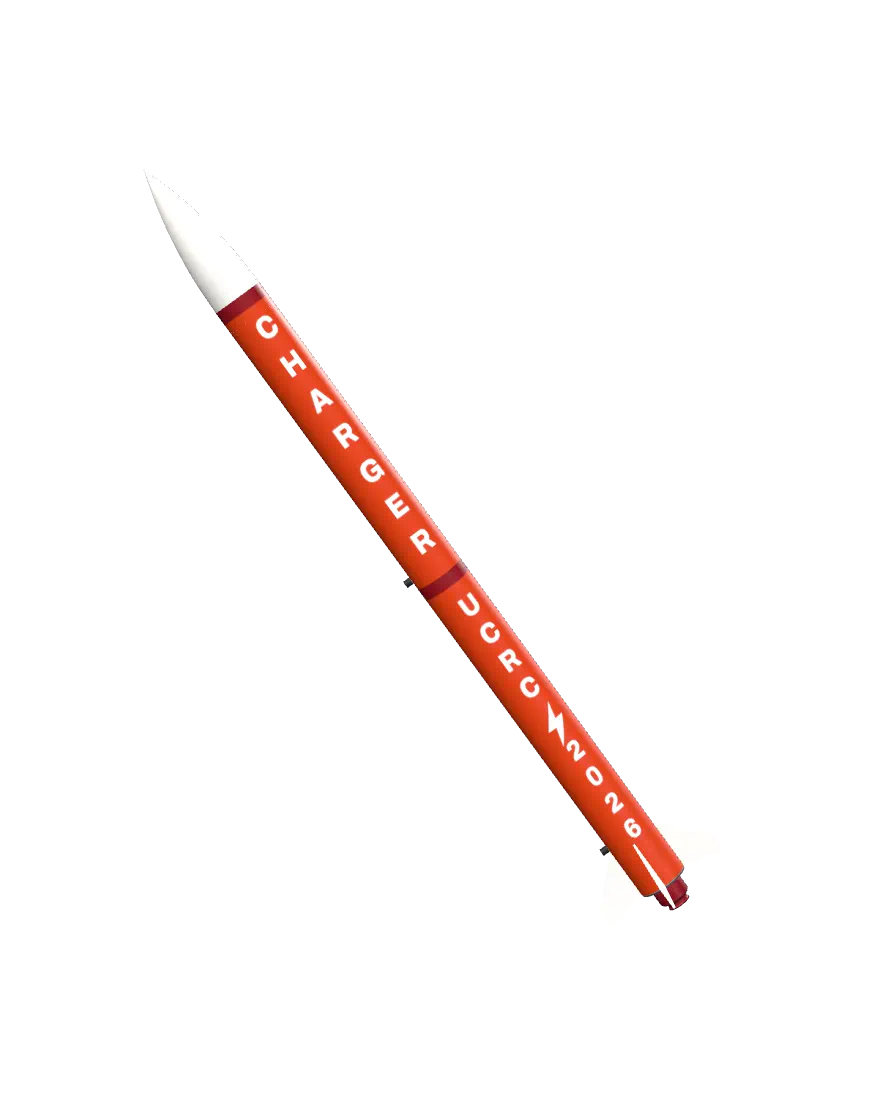
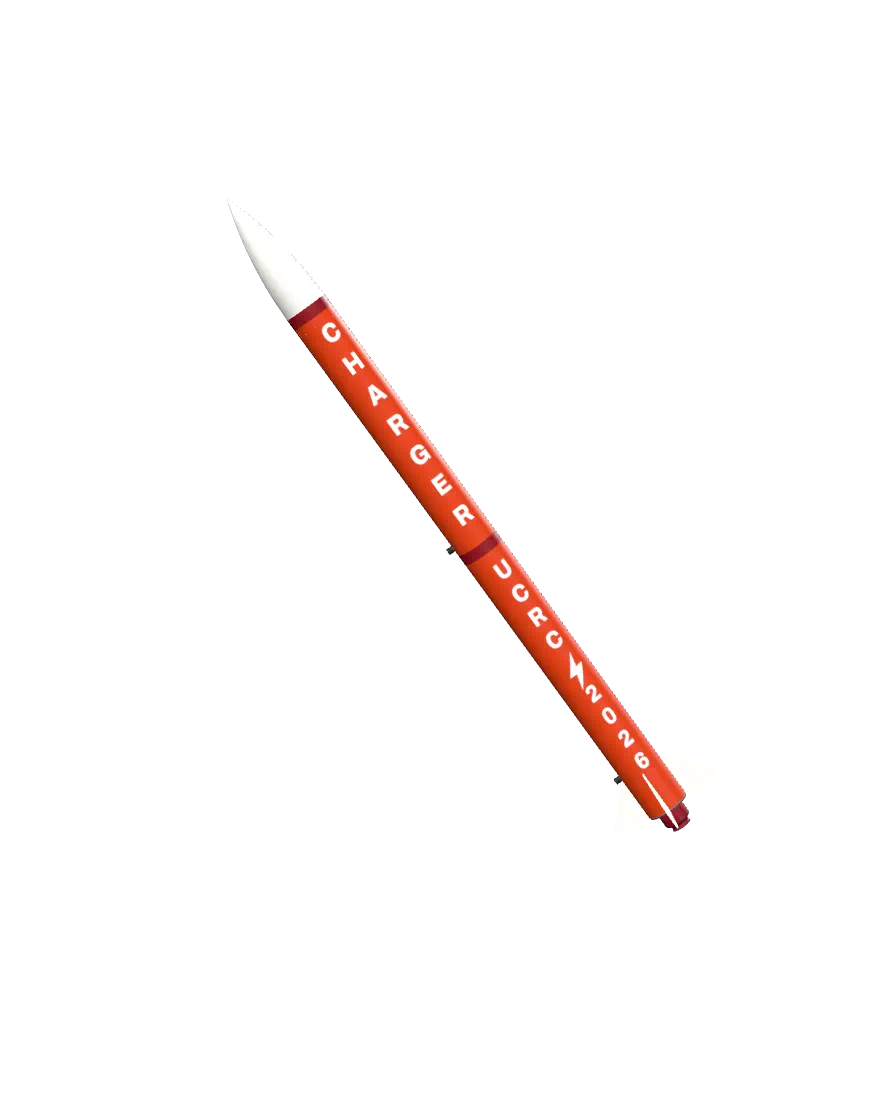
404 rocket stays clear of the text; /hi/ card back on top, quieter words
- 404: the stage gets its own grid column beside the text (above it on
  phones, no overlap). lost-rocket.js fit() samples five minutes of the
  wander with the pointer at every extreme and frames the camera so every
  pose stays inside the stage with a 4% margin. Poster re-rendered with
  the same framing.
- /hi/: the card is back at the top on phones (name, title and Save
  contact on the first screen, See my work above the fold). Words drift
  behind it and peek out below and, blurred, at its edges. A slot's
  outgoing word leaves before the next arrives, so words never stack.
  Seven slots like the hero; far words quieter. "Base Power" renders in
  Bodoni italic (.co).

Claude-Session: https://claude.ai/code/session_01JMpN34LvbzP7tKD78jciXm

Changed region(s): [[0.1841, 0.1855, 0.7977, 0.8345]]

diff --git a/next/css/pages.css b/next/css/pages.css
@@ -62,19 +62,19 @@ ol, ul { list-style: none; }
 
 /* ------------------------------------------------------------- 404 */
 .nf { padding-top: clamp(24px, 6vw, 96px); }
-.nf__hero { position: relative; }
+.nf__hero { display: grid; grid-template-columns: minmax(0, 1fr) clamp(200px, 26vw, 420px); column-gap: clamp(24px, 3vw, 56px); align-items: center; }
 .nf__copy { display: flex; flex-direction: column; align-items: flex-start; gap: clamp(18px, 2vw, 28px); }
-.nf__title { font-size: clamp(40px, 7.2vw, 132px); line-height: .88; letter-spacing: -.04em; max-width: 9.5em; }
+.nf__title { font-size: clamp(40px, 6.6vw, 124px); line-height: .88; letter-spacing: -.04em; max-width: 9.5em; }
 .nf__line { max-width: 44ch; font-size: clamp(17px, 1.5vw, 22px); line-height: 1.38; letter-spacing: -.01em; color: var(--ink-soft); }
 .nf__line a { color: inherit; text-decoration: underline; text-decoration-color: var(--line); text-decoration-thickness: 1px; text-underline-offset: 3px; transition: text-decoration-color var(--dur-400) var(--ease); }
 .nf__path { display: none; overflow-wrap: anywhere; }
 .nf__path b { font-weight: inherit; color: inherit; }
 .nf__path.is-set { display: block; }
 
-/* CHARGER, lost: the hero's rocket (next/js/lost-rocket.js) wandering beside the headline.
+/* CHARGER, lost: the hero's rocket (next/js/lost-rocket.js) wandering in its own column beside the
+   text (above it on phones). Its whole wander is framed inside the stage, so it never covers the text.
    The poster is the same render, so nothing jumps when the live canvas fades in. */
-.nf__copy { position: relative; z-index: 1; }
-.nf__stage { position: absolute; z-index: 0; right: 0; top: 50%; width: clamp(220px, 26vw, 420px); aspect-ratio: 4 / 5; translate: 0 -54%; pointer-events: none; }
+.nf__stage { position: relative; width: 100%; aspect-ratio: 4 / 5; pointer-events: none; }
 .nf__poster, .nf__canvas { position: absolute; inset: 0; width: 100%; height: 100%; }
 .nf__poster { transition: opacity var(--dur-600) linear; }
 .nf__canvas { opacity: 0; transition: opacity var(--dur-800) linear; }
@@ -100,7 +100,7 @@ ol, ul { list-style: none; }
 @media (max-width: 760px) {
   body { font-size: var(--text-m); }
   .nf__hero { display: flex; flex-direction: column; }
-  .nf__stage { order: -1; position: relative; top: auto; width: 180px; margin: -44px -8px -46px auto; translate: none; }
+  .nf__stage { order: -1; width: 168px; margin: -18px -6px 10px auto; }
   .nf__go { grid-template-columns: minmax(0, 1fr); }
   .nf__copy .pillbtn { width: 100%; }
 }
@@ -172,32 +172,32 @@ ol, ul { list-style: none; }
 .slot:nth-child(5) { --t: 14s; animation-delay: -3s; }
 .slot:nth-child(6) { --t: 10s; animation-delay: -7s; }
 .slot:nth-child(7) { --t: 12.5s; animation-delay: -5s; }
-.slot:nth-child(8) { --t: 15s; animation-delay: -9s; }
-@keyframes float { from { translate: 0 0; } to { translate: 14px -18px; } }
+@keyframes float { from { translate: 0 0; } to { translate: var(--fx, 14px) var(--fy, -18px); } }
 /* the swap is the hero's rise and fade without its blur filter: a phone page gets transform and opacity only */
-.slot i { position: absolute; left: 0; top: 0; font-style: normal; opacity: 0; transform: translate3d(0, 18px, 0); transition: opacity var(--dur-900) var(--ease), transform var(--dur-1100) var(--ease); }
-.slot i.on { opacity: 1; transform: none; }
+/* out first, then in (never two words of a slot on screen at once); --stagger is set per slot by the page */
+.slot i { position: absolute; left: 0; top: 0; font-style: normal; opacity: 0; transform: translate3d(0, 18px, 0); transition: opacity var(--dur-400) var(--ease), transform var(--dur-400) var(--ease); transition-delay: var(--stagger, 0ms); }
+.slot i.on { opacity: 1; transform: none; transition-duration: var(--dur-900), var(--dur-1100); transition-delay: calc(var(--stagger, 0ms) + var(--dur-400)); }
 .slot i:first-child { position: relative; }
 .s-xl { font-size: clamp(30px, 3.9vw, 66px); font-weight: var(--display-weight); font-stretch: var(--display-stretch); letter-spacing: -.03em; line-height: 1; text-transform: uppercase; }
 .s-l { font-size: clamp(22px, 2.5vw, 40px); font-weight: 500; font-stretch: 100%; letter-spacing: -.02em; line-height: 1; }
 .s-m { font-family: var(--serif); font-style: italic; font-size: clamp(20px, 2vw, 32px); font-weight: 500; color: var(--ink-soft); }
 .s-s { font-family: var(--mono); font-size: var(--text-mono-m); font-stretch: var(--mono-stretch); text-transform: uppercase; letter-spacing: .03em; color: var(--muted); }
 /* far words: the blur is a text-shadow (painted once), not a filter (recomputed every frame while they float) */
-.slot.far { opacity: .5; scale: 1.4; transform-origin: 0 0; }
+.slot.far { opacity: .38; scale: 1.4; transform-origin: 0 0; }
 .slot.far i { color: transparent; text-shadow: 0 0 4px var(--ink); }
 .slot.far.s-m i { text-shadow: 0 0 4px var(--ink-soft); }
 @media (max-width: 760px) {
-  .hi { padding-top: max(22svh, 170px); }
-  .slot:nth-child(4), .slot:nth-child(6), .slot:nth-child(8) { display: none; }
-  .slot:nth-child(1) { --x: 5% !important; --y: 4svh !important; }
-  .slot:nth-child(2) { --x: 44% !important; --y: 2.5svh !important; }
-  .slot:nth-child(3) { --x: 60% !important; --y: 11svh !important; }
-  .slot:nth-child(7) { --x: 6% !important; --y: 12svh !important; }
-  .slot:nth-child(5) { --x: 34% !important; --y: 16.5svh !important; }
-  .s-xl { font-size: 28px; }
+  /* the card stays at the top and fills the screen: words peek out below it and, blurred, at its edges */
+  .slot:nth-child(4), .slot:nth-child(6), .slot:nth-child(7) { display: none; }
+  .slot:nth-child(1), .slot:nth-child(3) { --fx: 10px; --fy: 4px; } /* the strip under the card is ~30px: float sideways, not up */
+  .slot:nth-child(1) { --x: 6% !important; --y: calc(100svh - 30px) !important; }
+  .slot:nth-child(3) { --x: 64% !important; --y: calc(100svh - 30px) !important; }
+  .slot:nth-child(2) { --x: -22% !important; --y: 30svh !important; }
+  .slot:nth-child(5) { --x: 90% !important; --y: 58svh !important; }
+  .s-xl { font-size: 24px; }
   .s-l { font-size: 21px; }
-  .s-m { font-size: 20px; }
-  .slot.far { scale: 1.2; }
+  .s-m { font-size: 19px; }
+  .slot.far { scale: 2.2; opacity: .3; }
 }
 
 /* ---------------------------------------------- reduced motion */

diff --git a/next/js/lost-rocket.js b/next/js/lost-rocket.js
@@ -8,11 +8,17 @@
 // (render it again with mountLost({ box, still: true }) if the pose changes),
 // so the switch from still to live is seamless. Reduced motion keeps the
 // poster; rendering stops while the stage is off screen or the tab is hidden.
-import { createEngine } from './showreel/engine.js';
+//
+// The rocket never leaves its stage: fit() samples the whole wander (five
+// minutes of it, pointer at every extreme) and frames the camera so every
+// pose stays inside the canvas with a margin. The stage itself sits beside
+// (desktop) or above (phone) the text in CSS, so the rocket never covers it.
+import { THREE, createEngine, screenExtents } from './showreel/engine.js';
 import { createRocket, applyCamera } from './hero3d.js';
 
 export const T0 = 0;                       // ms on the wander clock: the poster frame
-const LAYOUT = 'port', DIST = 3.35, SHIFT_Y = -.15; // hero portrait framing, pulled back a little for room to wander, centred
+const LAYOUT = 'port';                     // hero portrait framing (fit() then sets distance and shift)
+const MARGIN = .04;                        // share of the stage kept clear around every pose
 
 // Pose at wander time t (ms). Pure function of t and the pointer state.
 export function wander(rocket, t) {
@@ -26,16 +32,41 @@ export function wander(rocket, t) {
   g.rotation.y += s.sx * .22;              // nose toward the pointer (on top of the hero's own lean)
 }
 
+// Frame the camera so the union of every wander pose fits the canvas (w x h px)
+// with MARGIN on each side. Depends only on the aspect, so the poster matches.
+function fit(engine, rocket, w, h) {
+  const L = rocket.layout, cam = engine.camera, s = rocket.state, origin = new THREE.Object3D();
+  L.shiftX = 0; L.shiftY = 0;
+  for (let pass = 0; pass < 4; pass++) {
+    applyCamera(cam, L); cam.aspect = w / h; cam.updateProjectionMatrix();
+    let x0 = Infinity, x1 = -Infinity, y0 = Infinity, y1 = -Infinity;
+    for (const p of [-1, 0, 1]) for (const q of [-1, 0, 1]) {
+      s.px = s.sx = p; s.py = s.sy = q;
+      for (let t = 0; t <= 300000; t += 1500) {
+        wander(rocket, t);
+        const e = screenExtents([rocket.group], origin, cam, w, h);
+        x0 = Math.min(x0, -e.l); x1 = Math.max(x1, e.r); y0 = Math.min(y0, -e.u); y1 = Math.max(y1, e.d);
+      }
+    }
+    const unit = 2 * engine.viewAt(0).halfH / h;  // world units per px at the rocket's depth
+    L.shiftX -= (x0 + x1) / 2 * unit;
+    L.shiftY += (y0 + y1) / 2 * unit;
+    const k = Math.max((x1 - x0) / (w * (1 - 2 * MARGIN)), (y1 - y0) / (h * (1 - 2 * MARGIN)));
+    L.dist *= k;
+  }
+  applyCamera(cam, L); cam.aspect = w / h; cam.updateProjectionMatrix();
+  s.px = s.sx = s.py = s.sy = 0;
+}
+
 export async function mountLost({ box, base = '/next/assets/3d/', still = false, pixelRatio } = {}) {
   const canvas = box.querySelector('canvas');
   const engine = createEngine({ canvas, preserve: still, pixelRatio });
   const rocket = await createRocket({ layout: LAYOUT, base });
-  rocket.layout.dist = DIST;
-  rocket.layout.shiftY = SHIFT_Y;
   engine.scene.add(rocket.group);
   applyCamera(engine.camera, rocket.layout);
   const resize = () => engine.size(Math.max(1, box.clientWidth), Math.max(1, box.clientHeight));
   resize();
+  fit(engine, rocket, box.clientWidth || 4, box.clientHeight || 5);
   rocket.settle(T0);
   wander(rocket, T0);
   engine.render();

diff --git a/hi/index.html b/hi/index.html
@@ -35,7 +35,6 @@
   <span class="slot s-m far" style="--x:13%;--y:58%"><i class="on">Web</i><i>Photography</i><i>Websites</i></span>
   <span class="slot s-s" style="--x:75%;--y:86%"><i class="on">(Film)</i><i>(Cooking)</i><i>(Izmir to Austin)</i></span>
   <span class="slot s-l" style="--x:8%;--y:36%"><i class="on">Therma-Shift</i><i>ModuFly</i><i>Flight test</i></span>
-  <span class="slot s-l far" style="--x:71%;--y:66%"><i class="on">Bend fixture</i><i>CHARGER</i><i>Rudder pedals</i></span>
 </div>
 <main class="card rise">
   <div class="card__top">
@@ -64,7 +63,8 @@
     function show(n) {
       set = n % 3;
       slots.forEach(function (slot, si) {
-        [].forEach.call(slot.children, function (w, i) { w.style.transitionDelay = si * 70 + "ms"; w.classList.toggle("on", i === set); });
+        slot.style.setProperty("--stagger", si * 70 + "ms");
+        [].forEach.call(slot.children, function (w, i) { w.classList.toggle("on", i === set); });
       });
     }
     function run() {
